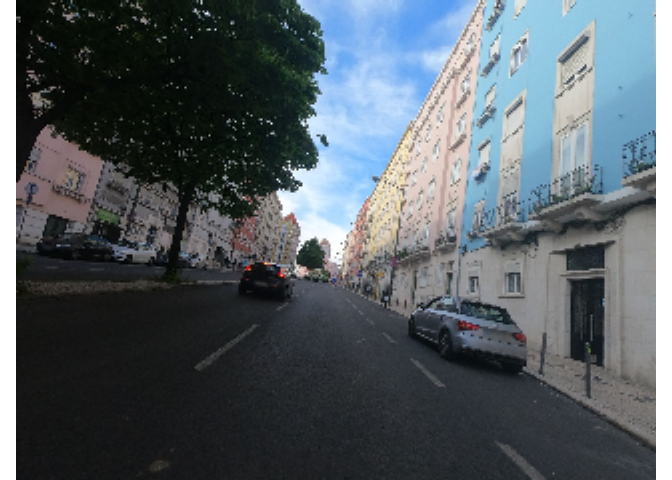
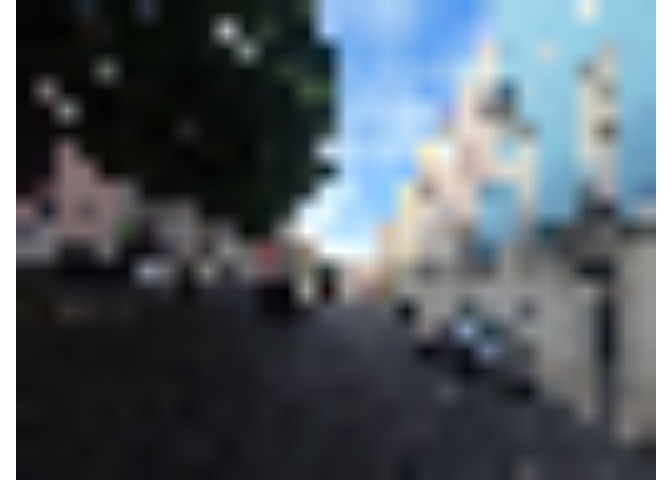
CVAE

diff --git a/CVAE.md b/CVAE.md
@@ -48,6 +48,9 @@ for(i in seq_along(files_train)){
 }
 ```
 
+> **Note**: The size of the images were substatially reduced for it to
+> able to run and appear in Github.
+
 ###### Check the number of dimensions
 
 ``` r
@@ -94,22 +97,10 @@ y_train <- to_categorical(y_t, num_classes = NULL, dtype="float32")
 Results_test <- list()
 for(i in seq_along(files_test)){
   Image <- readImage(files_test[i])
-  Resized <- resizeImage(Image, width = 240, height = 320)
+  Resized <- resizeImage(Image, width = 24, height = 32)
   Results_test[[i]] <- Resized
 }
 ```
-
-    ## Warning in resize_nearest_array(image, width, height): When resizing the 'width'
-    ## becomes 239 therefore we have to adjust it to the input width parameter of
-    ## 240.000000 !
-
-    ## Warning in resize_nearest_array(image, width, height): When resizing the 'width'
-    ## becomes 239 therefore we have to adjust it to the input width parameter of
-    ## 240.000000 !
-
-    ## Warning in resize_nearest_array(image, width, height): When resizing the 'width'
-    ## becomes 239 therefore we have to adjust it to the input width parameter of
-    ## 240.000000 !
 
 ###### Check the number of dimensions
 
@@ -117,7 +108,7 @@ for(i in seq_along(files_test)){
 dim(Results_test[[2]])
 ```
 
-    ## [1] 240 320   3
+    ## [1] 24 32  3
 
 ###### Show an example of an image from the test dataset
 
@@ -144,9 +135,340 @@ y_te <- data.frame(labels_test[-c(1:3)]) %>%
 y_test <- to_categorical(y_te, num_classes = NULL, dtype = "float32") 
 ```
 
-##### VARIATIONAL AUTOENCODER
+##### 4. Data preparation
 
-## Input image dimensions
+``` r
+library(listarrays)
 
-img_rows \<- 24L img_cols \<- 32L img_channels \<- 3L \# Greyscale = 1
-and RGB = 3
+x_train <- train_array %>% 
+  `/` (255) 
+```
+
+> **Note**: keras.Conv2D layers expect input with 4D shape.
+
+``` r
+dim(x_train)
+```
+
+    ## [1] 1265   24   32    3
+
+``` r
+x_test <- test_array %>% 
+  `/` (255) 
+```
+
+##### 5. CONDITIONAL VARIATIONAL AUTOENCODER
+
+###### Input image dimensions
+
+``` r
+img_rows <- 24L
+img_cols <- 32L
+img_channels <- 3L # Greyscale = 1 and RGB = 3
+```
+
+**a) Training parameters**
+
+``` r
+batch_size <- 2L   # number of training samples used in one iteration
+
+epochs <- 50L  # number of times that the learning algorithm will work through the entire training dataset
+
+original_dim <- c(img_rows, img_cols, img_channels)
+
+## Number of convolutional filters to use
+filters <- 1L #Detects the patterns on the data.
+
+# Convolution kernel size
+num_conv <- 3L
+
+#Dimensionality
+intermediate_dim <- 128L
+latent_dim <- 2L
+epsilon_std <- 1.0
+
+#Shape 
+x_train_shape <- dim(x_train)[1]
+
+y_train_shape <- dim(y_train)[2] 
+```
+
+**b) Model definition**
+
+##### ENCODER
+
+``` r
+x <- layer_input(shape = original_dim, name = 'x')
+
+conv_1 <- layer_conv_2d(
+  x,
+  filters = img_channels,
+  kernel_size = c(2L, 2L),
+  strides = c(1L, 1L),
+  padding = "same",
+  activation = "relu"
+)
+
+conv_2 <- layer_conv_2d(
+  conv_1,
+  filters = filters,
+  kernel_size = c(2L, 2L),
+  strides = c(2L, 2L),
+  padding = "same",
+  activation = "relu"
+)
+
+conv_3 <- layer_conv_2d(
+  conv_2,
+  filters = filters,
+  kernel_size = c(num_conv, num_conv),
+  strides = c(1L, 1L),
+  padding = "same",
+  activation = "relu"
+)
+
+conv_4 <- layer_conv_2d(
+  conv_3,
+  filters = filters,
+  kernel_size = c(num_conv, num_conv),
+  strides = c(1L, 1L),
+  padding = "same",
+  activation = "relu"
+)
+```
+
+###### Flattern the layer to be in same dimension as the label
+
+``` r
+flat <- layer_flatten(conv_4, input_shape = x_train_shape)
+
+#Label
+label <- layer_input(shape = y_train_shape, name = 'label') 
+
+inputs <- layer_concatenate(list(flat,label))
+```
+
+###### Define dense layers
+
+``` r
+h <- layer_dense(inputs, intermediate_dim, activation = "relu") #hidden layer
+z_mean <- layer_dense(h, latent_dim, name = 'latent_mu')
+z_log_var <- layer_dense(h, latent_dim, name = 'latent_sigma')
+```
+
+###### Reparameterization trick
+
+``` r
+sampling <- function(arg){
+  z_mean <- arg[, 1:(latent_dim)]
+  z_log_var <- arg[, (latent_dim + 1):(2 * latent_dim)]
+  
+  epsilon <- k_random_normal(
+    shape = c(k_shape(z_mean)[[1]]), 
+    mean=0.,
+    stddev=epsilon_std
+  )
+  
+  z_mean + k_exp(z_log_var/2)*epsilon
+}
+```
+
+> **Note**: The reparameterization trick allows the model to train both
+> **mu** and **sigma** of the latent space.
+
+> **Note**: We define a sampling function to sample from the
+> distribution. z = z_mean + sigma\*epsilon;  
+> where, sigma = exp(log_var/2)
+
+-   z_mean (mu) is a vector that represents the the mean point of the
+    distribution;
+-   log_var is a vector that represents the logarithm of the variance of
+    each dimension;
+-   epsilon is a point sampled from the standard normal distribution.
+
+###### LATENT SPACE: Define “z” by creating a sample vector from the latent distribution
+
+``` r
+z <- layer_concatenate(list(z_mean, z_log_var)) %>%   
+  layer_lambda(sampling)
+```
+
+###### Merge latent space with features
+
+``` r
+zc <- layer_concatenate(list(z, label))
+```
+
+###### Define and summarize the encoder model
+
+``` r
+encoder <- keras_model(c(x,label),c(z_mean,z_log_var)) #Images and labels
+summary(encoder)
+```
+
+    ## Model: "model"
+    ## ________________________________________________________________________________
+    ##  Layer (type)             Output Shape      Param #  Connected to               
+    ## ================================================================================
+    ##  x (InputLayer)           [(None, 24, 32,   0        []                         
+    ##                           3)]                                                   
+    ##  conv2d (Conv2D)          (None, 24, 32, 3  39       ['x[0][0]']                
+    ##                           )                                                     
+    ##  conv2d_1 (Conv2D)        (None, 12, 16, 1  13       ['conv2d[0][0]']           
+    ##                           )                                                     
+    ##  conv2d_2 (Conv2D)        (None, 12, 16, 1  10       ['conv2d_1[0][0]']         
+    ##                           )                                                     
+    ##  conv2d_3 (Conv2D)        (None, 12, 16, 1  10       ['conv2d_2[0][0]']         
+    ##                           )                                                     
+    ##  flatten (Flatten)        (None, 192)       0        ['conv2d_3[0][0]']         
+    ##  label (InputLayer)       [(None, 2)]       0        []                         
+    ##  concatenate (Concatenate  (None, 194)      0        ['flatten[0][0]',          
+    ##  )                                                    'label[0][0]']            
+    ##  dense (Dense)            (None, 128)       24960    ['concatenate[0][0]']      
+    ##  latent_mu (Dense)        (None, 2)         258      ['dense[0][0]']            
+    ##  latent_sigma (Dense)     (None, 2)         258      ['dense[0][0]']            
+    ## ================================================================================
+    ## Total params: 25,548
+    ## Trainable params: 25,548
+    ## Non-trainable params: 0
+    ## ________________________________________________________________________________
+
+##### DECODER
+
+``` r
+output_shape <- c(batch_size, 12L, 16L, filters) # For the encoder to have the same dimensions as the decoder
+
+decoder_input <- layer_input(shape = latent_dim+y_train_shape, name = 'decoder_input')
+# We need to start with a shape that can be remapped to the original image shape.
+
+decoder_upsample <- layer_dense(units = prod(output_shape[-1]), activation = "relu")
+decoder_hidden <- layer_dense(units = intermediate_dim, activation = "relu")
+
+decoder_reshape <- layer_reshape(target_shape = output_shape[-1])   #output_shape[-1]
+
+decoder_deconv_1 <- layer_conv_2d_transpose(
+  filters = filters,
+  kernel_size = c(num_conv, num_conv),
+  strides = c(1L, 1L),
+  padding = "same",
+  activation = "relu"
+)
+
+decoder_deconv_2 <- layer_conv_2d_transpose(
+  filters = filters,
+  kernel_size = c(num_conv, num_conv),
+  strides = c(1L, 1L),
+  padding = "same",
+  activation = "relu"
+)
+
+decoder_deconv_3_upsample <- layer_conv_2d_transpose(
+  filters = img_channels,
+  kernel_size = c(3L, 3L),
+  strides = c(2L, 2L),
+  padding = "same",
+  activation = "softmax"
+)
+
+
+hidden_decoded <- decoder_hidden(z)
+up_decoded <- decoder_upsample(hidden_decoded)
+reshape_decoded <- decoder_reshape(up_decoded)
+deconv_1_decoded <- decoder_deconv_1(reshape_decoded)
+deconv_2_decoded <- decoder_deconv_2(deconv_1_decoded)
+outputs <- decoder_deconv_3_upsample(deconv_2_decoded)
+```
+
+##### c) Define Loss function
+
+``` r
+vae_loss <- function(x, outputs) {
+  x <- k_flatten(x)
+  outputs <- k_flatten(outputs)
+  xent_loss <- 1.0 * img_rows * img_cols * loss_binary_crossentropy(x, outputs)
+  kl_loss <- -0.5 * k_mean(1 + z_log_var - k_square(z_mean) - k_exp(z_log_var), axis = -1L)
+  k_mean(xent_loss + kl_loss)
+}
+```
+
+###### CVAE model
+
+``` r
+cvae <- keras_model(c(x,label), outputs)
+cvae %>% compile(optimizer = "adam", loss = vae_loss)
+
+summary(cvae)
+```
+
+    ## Model: "model_1"
+    ## ________________________________________________________________________________
+    ##  Layer (type)             Output Shape      Param #  Connected to               
+    ## ================================================================================
+    ##  x (InputLayer)           [(None, 24, 32,   0        []                         
+    ##                           3)]                                                   
+    ##  conv2d (Conv2D)          (None, 24, 32, 3  39       ['x[0][0]']                
+    ##                           )                                                     
+    ##  conv2d_1 (Conv2D)        (None, 12, 16, 1  13       ['conv2d[0][0]']           
+    ##                           )                                                     
+    ##  conv2d_2 (Conv2D)        (None, 12, 16, 1  10       ['conv2d_1[0][0]']         
+    ##                           )                                                     
+    ##  conv2d_3 (Conv2D)        (None, 12, 16, 1  10       ['conv2d_2[0][0]']         
+    ##                           )                                                     
+    ##  flatten (Flatten)        (None, 192)       0        ['conv2d_3[0][0]']         
+    ##  label (InputLayer)       [(None, 2)]       0        []                         
+    ##  concatenate (Concatenate  (None, 194)      0        ['flatten[0][0]',          
+    ##  )                                                    'label[0][0]']            
+    ##  dense (Dense)            (None, 128)       24960    ['concatenate[0][0]']      
+    ##  latent_mu (Dense)        (None, 2)         258      ['dense[0][0]']            
+    ##  latent_sigma (Dense)     (None, 2)         258      ['dense[0][0]']            
+    ##  concatenate_1 (Concatena  (None, 4)        0        ['latent_mu[0][0]',        
+    ##  te)                                                  'latent_sigma[0][0]']     
+    ##  lambda (Lambda)          (None, 2)         0        ['concatenate_1[0][0]']    
+    ##  dense_2 (Dense)          (None, 128)       384      ['lambda[0][0]']           
+    ##  dense_1 (Dense)          (None, 192)       24768    ['dense_2[0][0]']          
+    ##  reshape (Reshape)        (None, 12, 16, 1  0        ['dense_1[0][0]']          
+    ##                           )                                                     
+    ##  conv2d_transpose (Conv2D  (None, 12, 16, 1  10      ['reshape[0][0]']          
+    ##  Transpose)               )                                                     
+    ##  conv2d_transpose_1 (Conv  (None, 12, 16, 1  10      ['conv2d_transpose[0][0]'] 
+    ##  2DTranspose)             )                                                     
+    ##  conv2d_transpose_2 (Conv  (None, 24, 32, 3  30      ['conv2d_transpose_1[0][0]'
+    ##  2DTranspose)             )                          ]                          
+    ## ================================================================================
+    ## Total params: 50,750
+    ## Trainable params: 50,750
+    ## Non-trainable params: 0
+    ## ________________________________________________________________________________
+
+##### d) Model training
+
+``` r
+cvae_final <- fit(cvae,
+  list(x_train,y_train), x_train,
+  verbose = 1,
+  epochs = epochs, 
+  batch_size = batch_size, 
+  validation_data = list(list(x_test,y_test), x_test)
+)
+```
+
+##### e) Present examples of images generated by the generative model
+
+###### Generated image from the the training database
+
+``` r
+imageShow(x_train[3,,,])
+```
+
+![](CVAE_files/figure-gfm/unnamed-chunk-28-1.png)<!-- -->
+
+###### Generated image from the the test database
+
+``` r
+imageShow(x_test[3,,,])
+```
+
+![](CVAE_files/figure-gfm/unnamed-chunk-29-1.png)<!-- -->
+
+> **Note**: In this example we are printing images with id=3 of the
+> training and test datasets.
